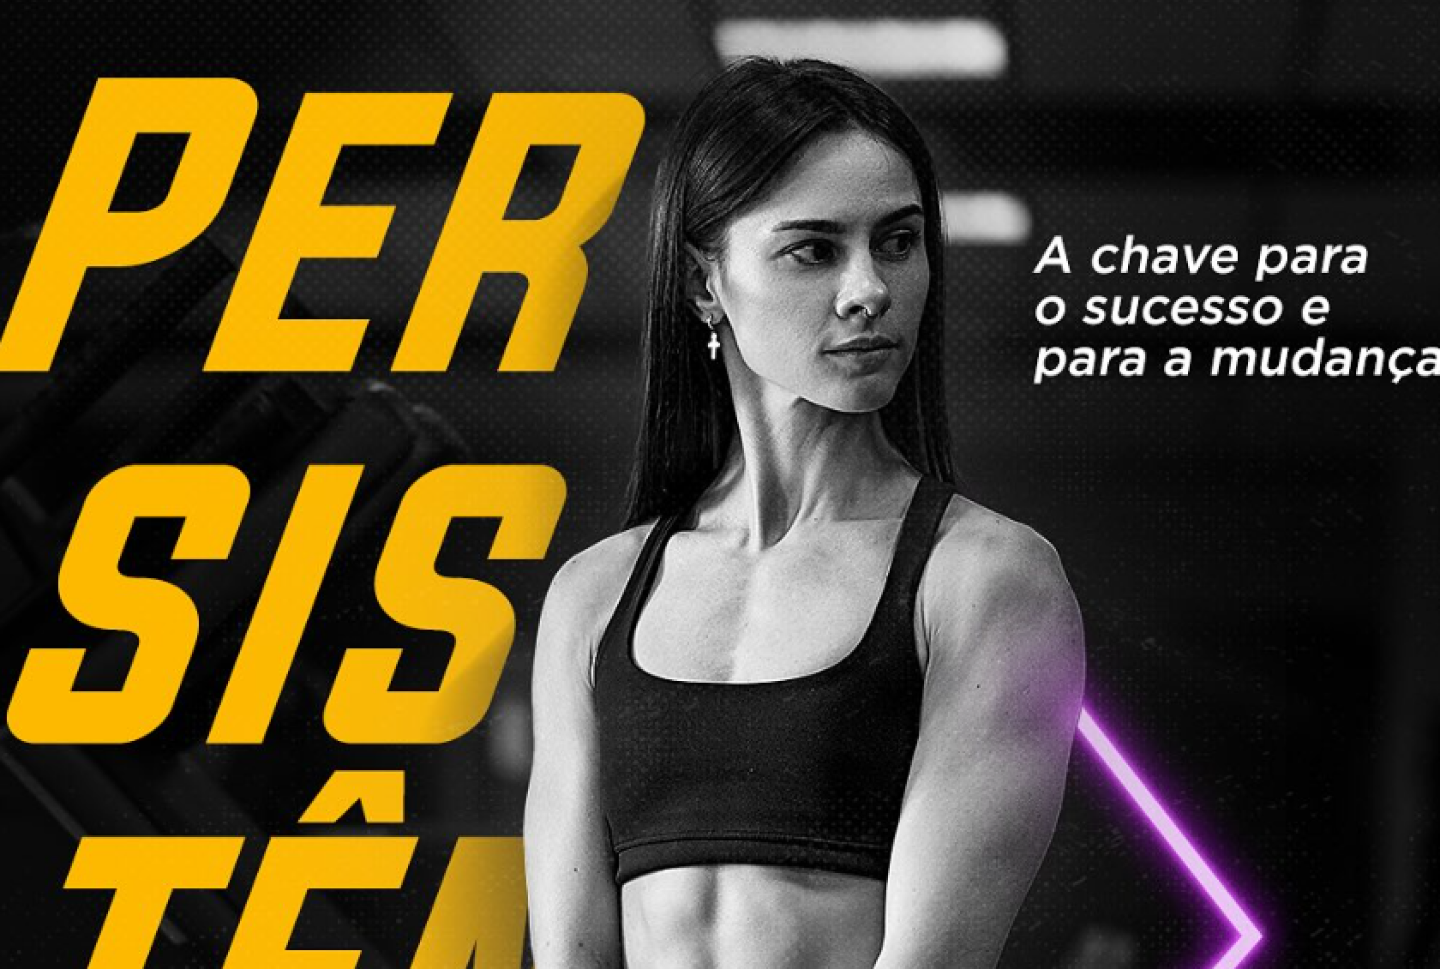
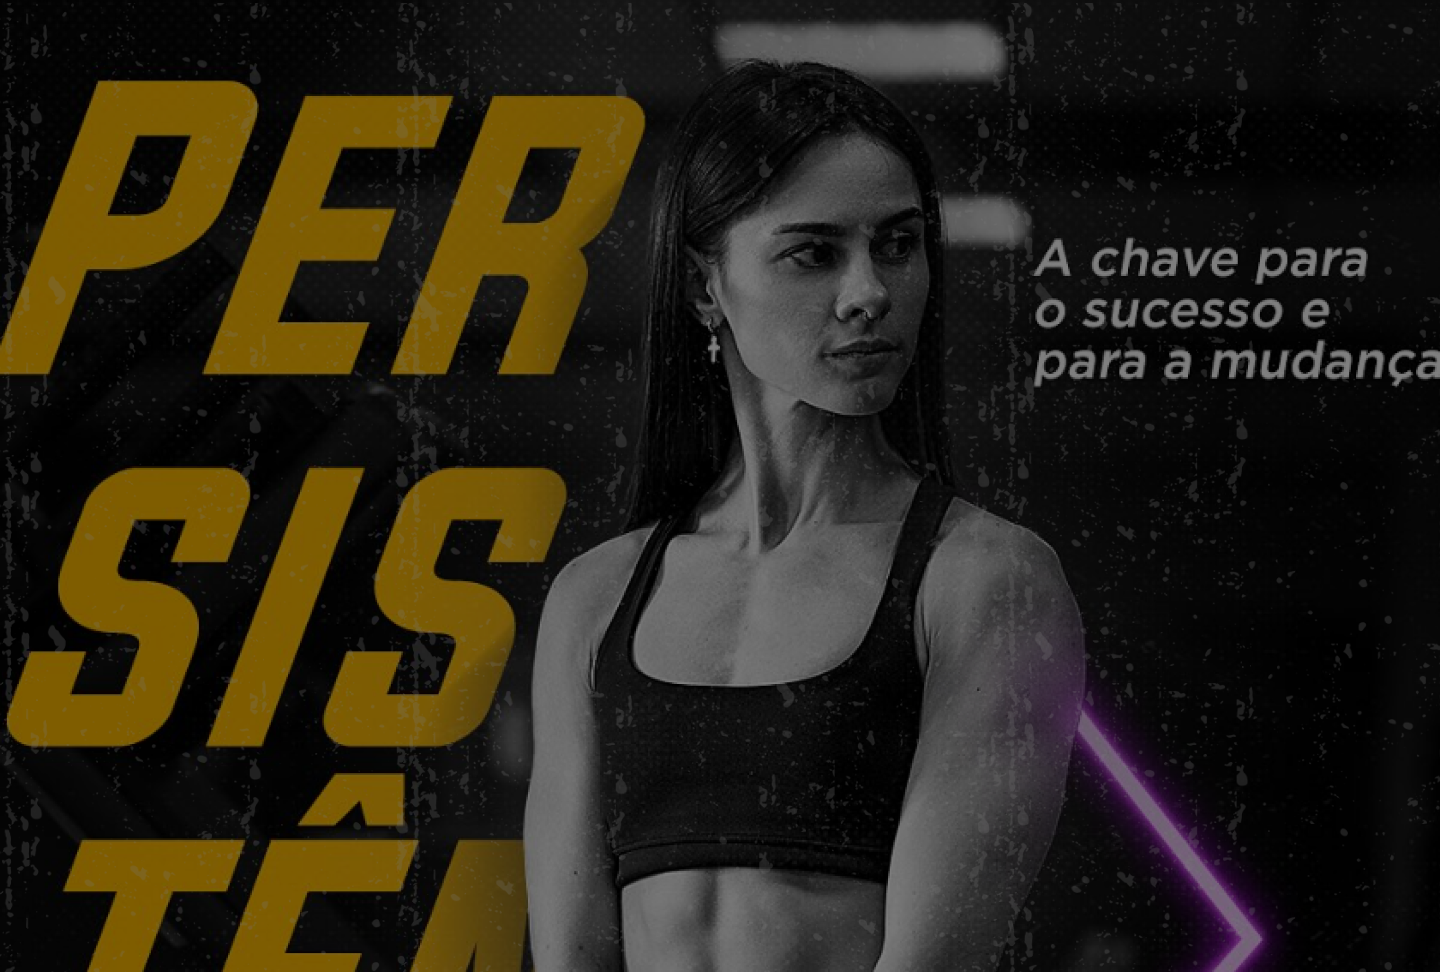
Atualizado o video

diff --git a/Speed Form Academias/styles/header.css b/Speed Form Academias/styles/header.css
@@ -5,8 +5,6 @@
   background: url("../img/videoInicio.png") no-repeat center / cover;
 
   z-index: -1;
-
-  opacity: .5;
 }
 
 header{
